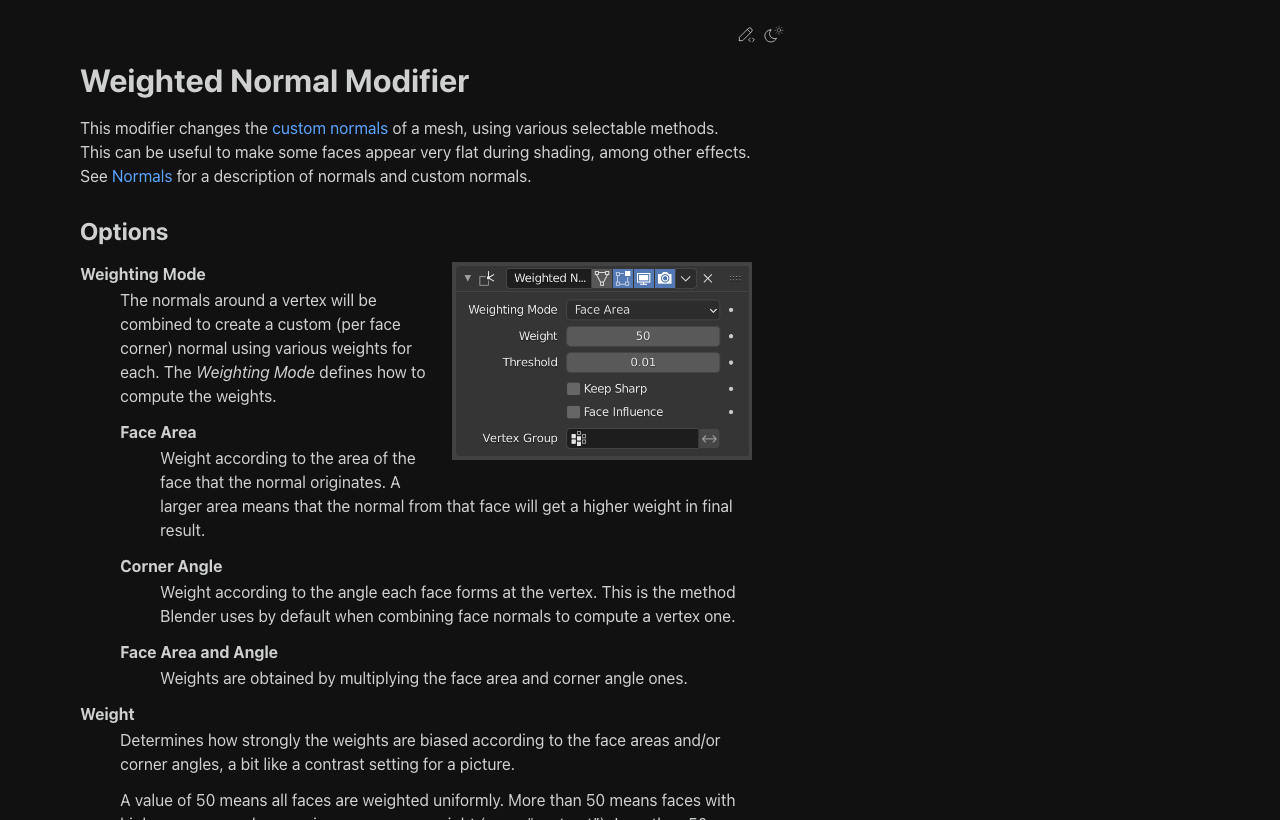
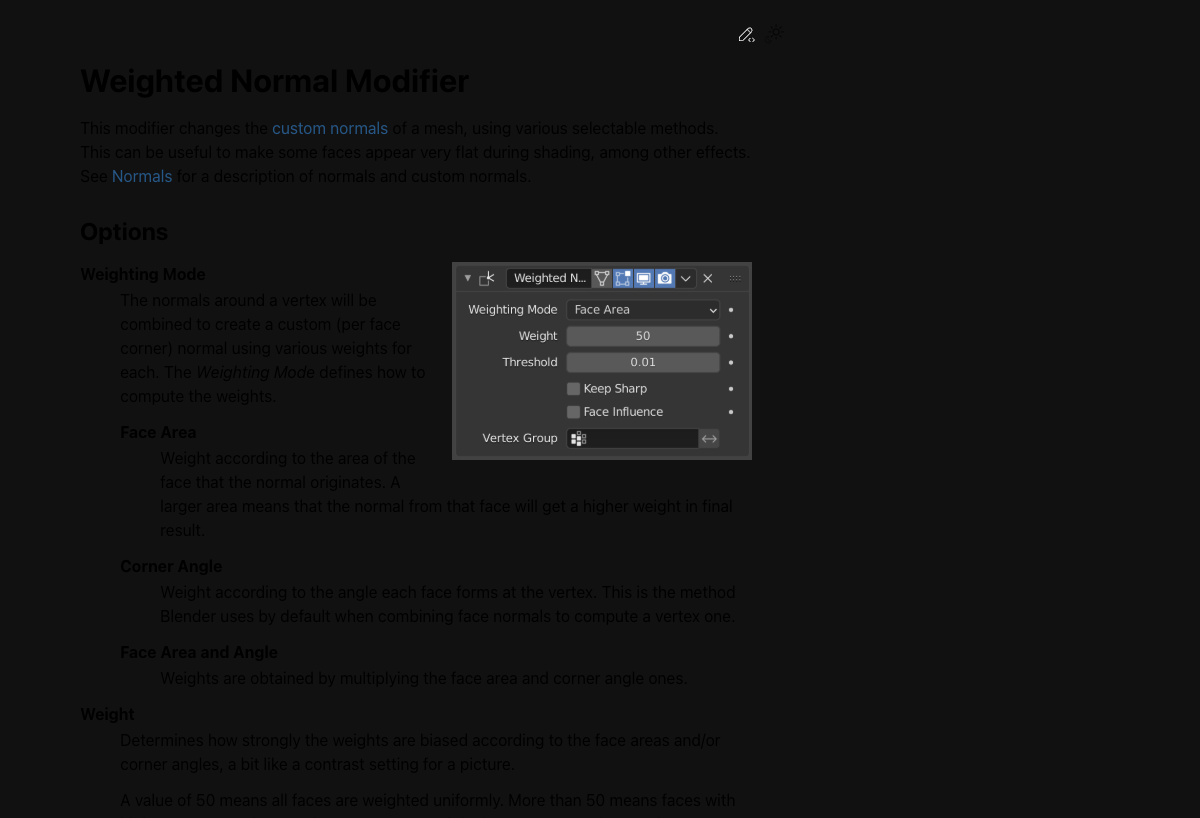
fix: Week 03 이미지 개선 — modifier-stack, boolean 라이트모드 재캡처
- modifier-stack.png: Mirror+SubDiv 순서 비교 시각 자료로 교체 (Blender docs)
- array-boolean-detail.png: 다크모드 → 라이트모드 재캡처 (텍스트 가독성 확보)
- weighted-normal.png: 최신 docs 페이지로 재캡처
- curriculum.js: step 10 이미지 mirror-modifier → modifier-stack.png

diff --git a/course-site/data/curriculum.js b/course-site/data/curriculum.js
@@ -713,7 +713,7 @@ const CURRICULUM = [
             "detail": "Scale이 1이 아니면 Modifier 결과가 달라짐"
           }
         ],
-        "image": "assets/images/week03/mirror-modifier.png",
+        "image": "assets/images/week03/modifier-stack.png",
         "done": [
           "순서를 바꿨을 때 결과가 달라지는 것을 확인했다",
           "Apply는 마지막에만 하는 이유를 안다"
